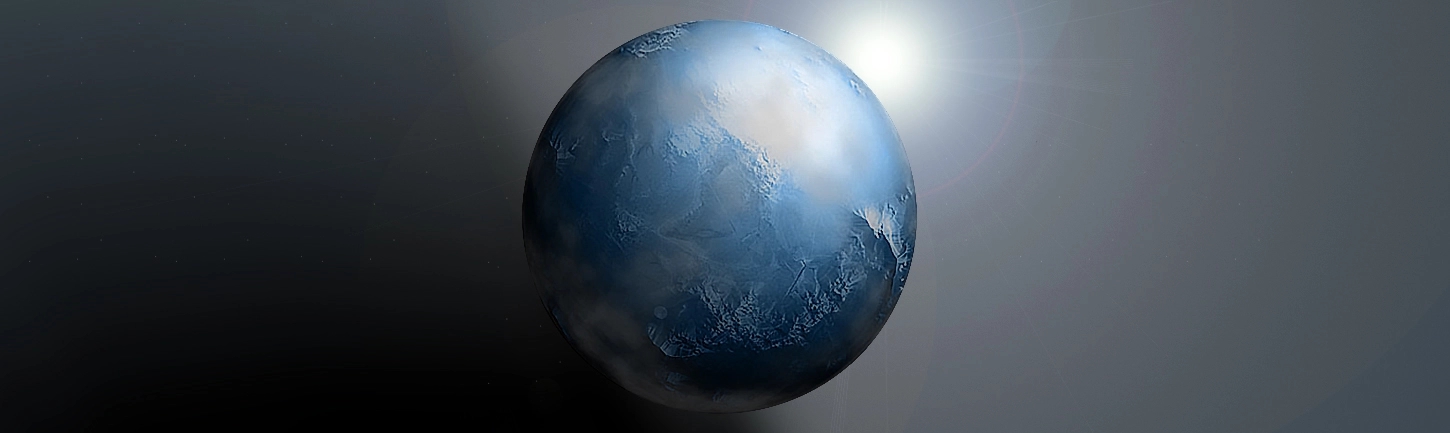
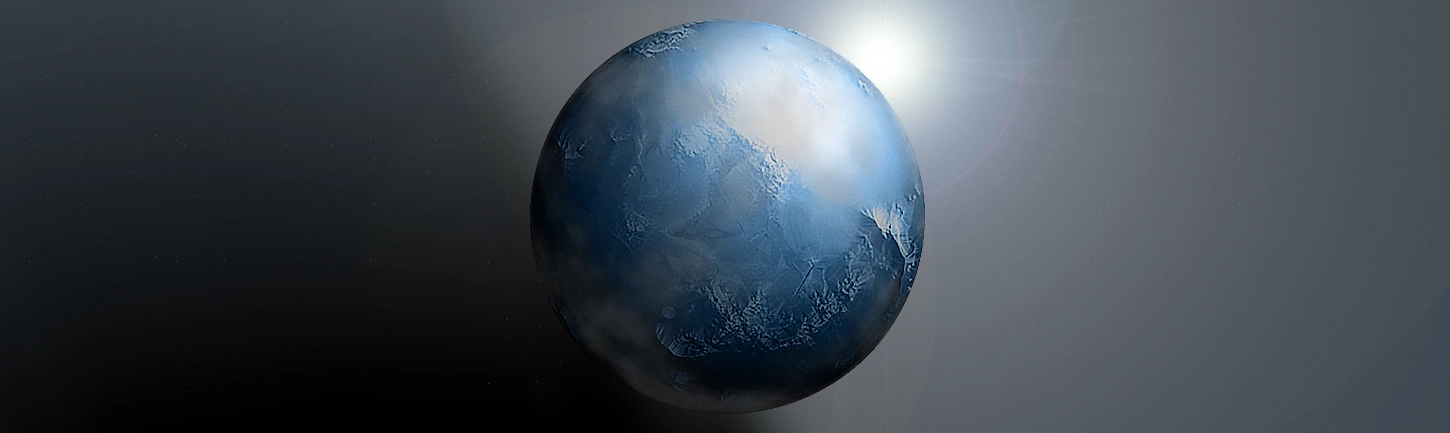
modification couleurs

diff --git a/css/styles_desktop.css b/css/styles_desktop.css
@@ -12,7 +12,7 @@ body {
     font-family: "Roboto", "Roboto Condensed", "Scope One" "sans-serif";
     background-image: 
     /* radial-gradient(circle, rgb(0, 0, 0) 0%, rgba(243, 235, 208, 0.281) 10%, rgba(0, 0, 0, 0.658) 80%),  */
-    url("../assets/banimg2.webp");
+    url("../assets/banimg3.webp");
     background-repeat: no-repeat;
     background-position: top;
     background-size: contain;
@@ -125,7 +125,8 @@ h3 {
 #bgc-form {
     padding: 20px;
     background-color: black;
-    background-size: auto;
+    margin-right: -8px;
+    margin-left: -8px;
 }
 form {
     display: flex;
@@ -212,7 +213,7 @@ h1 {
     flex-wrap: wrap;
     margin-left: auto;
     margin-right: auto;
-    padding: 20px 0 20px 0;
+    padding: 20px 0 10px 0;
 }
 
 /* .bann-header {
@@ -236,7 +237,6 @@ h1 {
 .t2 {
     font-size: 1.2em;
     margin-top: -20px;
-    padding-left: 20px;
     text-align: center;
     color: white;
 }
@@ -328,7 +328,7 @@ h1 {
 /* conteneur A PROPOS */
 
 .container-bio {
-    background-color: #6E858A;
+    background-color: #444c55;
     margin: -1px -8px 0px -8px;
     box-shadow: inset 0px 5px 5px rgba(0, 0, 0, 0.322);
     padding: 0 8px 50px 8px;
@@ -426,14 +426,14 @@ h1 {
     width: auto;
 }
 .container-cards {
-    background-color: #6E858A;
+    background-color: #444c55;
     margin: -1px -8px 10px -8px;
     padding: 0 8px 50px 8px;
     box-shadow: 0px -5px 5px rgba(0, 0, 0, 0.322);
 }
 
 .container-cards2 {
-    background-color: #6E858A;
+    background-color: #444c55;
     display: flex;
     flex-wrap: wrap;
     flex-direction: column;

diff --git a/contact.html b/contact.html
@@ -77,7 +77,7 @@
 			type="email"
 			placeholder="*"
 			id="Email"
-            required="required"
+            required
 			aria-required="true"
 			aria-label="email"
 			name="Email"
